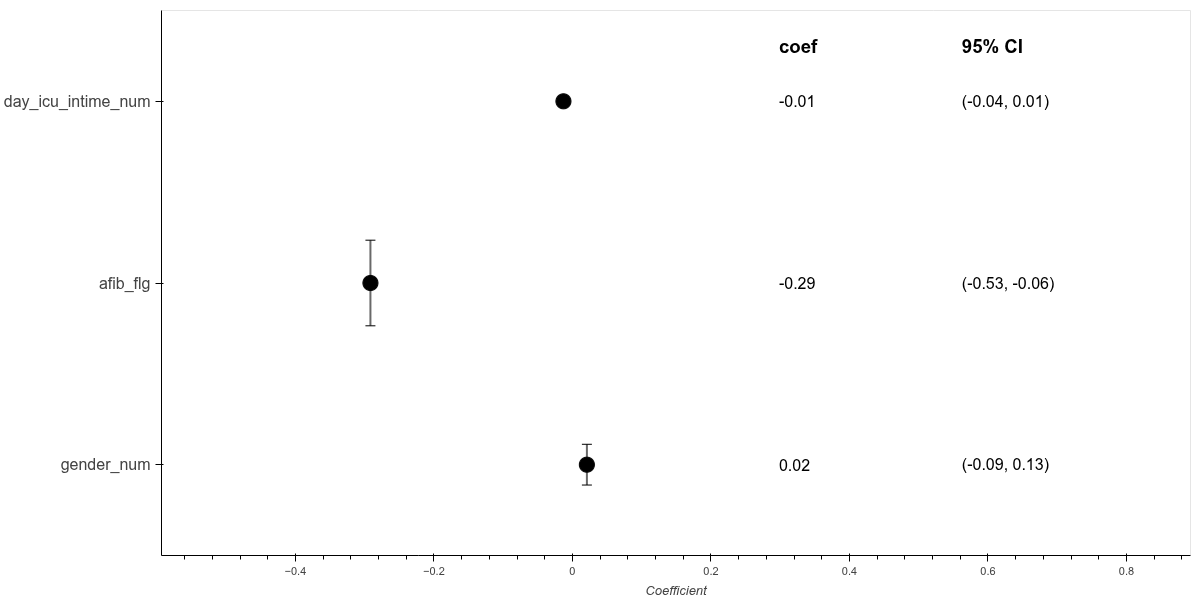
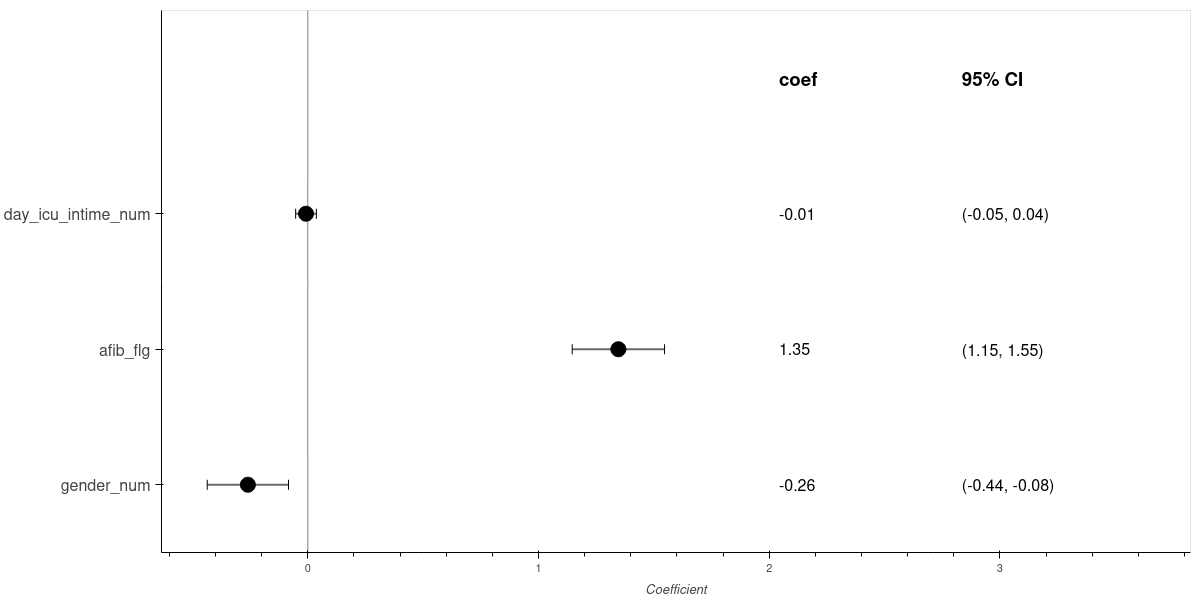
Draw horizontal error bars and the reference line at 0 in cox_ph_forestplot (#1191)
* Draw horizontal error bars and the reference line at 0 in cox_ph_forestplot

The error bars got the coefficient and the row as two key dimensions, so holoviews warned and drew them vertically along the rows.
They now have the coefficient as key dimension and the row as value dimension with horizontal=True.
The x axis shows coefficients, the log hazard ratios, so the reference line of a hazard ratio of 1 belongs at 0, not at 1, and the axis now always includes it.
The header sat 0.3 rows above the top coefficient and overlapped it once there were more than a few rows, so it now gets its own row.
The docstring preview is regenerated from the docstring example.

* Link the changelog entry to its pull request

diff --git a/ehrapy/plot/_survival_analysis.py b/ehrapy/plot/_survival_analysis.py
@@ -392,8 +392,8 @@ def cox_ph_forestplot(
     upper = coxph_fitting_summary["coef upper 95%"].values
     y_positions = np.arange(len(coxph_fitting_summary))
 
-    x_axis_upper_bound = float(pd.to_numeric(coxph_fitting_summary["coef upper 95%"]).max())
-    x_axis_lower_bound = float(pd.to_numeric(coxph_fitting_summary["coef lower 95%"]).min())
+    x_axis_upper_bound = max(float(pd.to_numeric(coxph_fitting_summary["coef upper 95%"]).max()), 0.0)
+    x_axis_lower_bound = min(float(pd.to_numeric(coxph_fitting_summary["coef lower 95%"]).min()), 0.0)
 
     data_range = x_axis_upper_bound - x_axis_lower_bound
     plot_padding = data_range * 0.1
@@ -414,8 +414,9 @@ def cox_ph_forestplot(
 
     error_bars = hv.ErrorBars(
         error_data,
-        kdims=["Coefficient", "Variable"],
-        vdims=["negative_error", "positive_error"],
+        kdims=["Coefficient"],
+        vdims=["Variable", "negative_error", "positive_error"],
+        horizontal=True,
     ).opts(color=ecolor, line_width=2)
 
     points = hv.Scatter(
@@ -424,7 +425,7 @@ def cox_ph_forestplot(
         vdims=["Variable"],
     ).opts(color=color, size=size * 5, marker=marker, tools=["hover"])
 
-    vline = hv.VLine(1).opts(color="gray", line_width=1)
+    vline = hv.VLine(0).opts(color="gray", line_width=1)
 
     text_labels = []
     for coef_val, low_val, upp_val, y_pos in zip(coefs, lower, upper, y_positions, strict=False):
@@ -443,7 +444,7 @@ def cox_ph_forestplot(
         text_font_size=f"{text_size}pt", text_align="left", text_color="black"
     )
 
-    header_y = len(coxph_fitting_summary) - 0.7
+    header_y = len(coxph_fitting_summary)
     header_labels = hv.Labels(
         [
             (text_start_x, header_y, "coef"),
@@ -457,7 +458,7 @@ def cox_ph_forestplot(
         width=width,
         height=height,
         xlim=(plot_x_min, total_x_max),
-        ylim=(len(coxph_fitting_summary) - 0.5, -0.5),
+        ylim=(len(coxph_fitting_summary) + 0.5, -0.5),
         invert_yaxis=True,
         yticks=list(zip(y_positions, labels, strict=False)),
         xlabel="Coefficient",

diff --git a/tests/plot/test_survival_analysis.py b/tests/plot/test_survival_analysis.py
@@ -74,8 +74,15 @@ def test_coxph_forestplot(mimic_2: EHRData):
     ].copy()
     ep.tl.cox_ph(edata_subset, duration_col="mort_day_censored", event_col="censor_flg")
     plot = ep.pl.cox_ph_forestplot(edata_subset)
-    assert plot is not None
     assert isinstance(plot, hv.Overlay)
+
+    (vline,) = (element for element in plot if isinstance(element, hv.VLine))
+    assert vline.data == 0
+    (error_bars,) = (element for element in plot if isinstance(element, hv.ErrorBars))
+    assert error_bars.horizontal
+    np.testing.assert_allclose(error_bars.dimension_values("Variable"), [0, 1, 2])
+    labels, header = (element for element in plot if isinstance(element, hv.Labels))
+    assert header.dimension_values("y").min() - labels.dimension_values("y").max() >= 1
 
 
 def test_ols(mimic_2: EHRData):

diff --git a/docs/changelog.md b/docs/changelog.md
@@ -95,6 +95,7 @@ This project adheres to [Semantic Versioning](https://semver.org/spec/v2.0.0.htm
 
 ### 🐛 Bug Fixes
 
+* {func}`ep.pl.cox_ph_forestplot <ehrapy.plot.cox_ph_forestplot>` draws the confidence intervals as horizontal error bars, puts the reference line at a coefficient of 0, which is a hazard ratio of 1, instead of 1, and gives the header its own row instead of overlapping the top coefficient ([#1191](https://github.com/theislab/ehrapy/pull/1191)) @Zethson
 * The survival models that derive durations from a longitudinal `event_col` measure them in the unit of `edata.tem["time_value"]`, such as hours on PhysioNet 2012 and 2019, instead of in seconds of `edata.tem["interval_start_offset"]`, which they keep using when `tem` has no `time_value` ([#1190](https://github.com/theislab/ehrapy/pull/1190)) @Zethson
 * The examples of {func}`ep.tl.kaplan_meier <ehrapy.tools.kaplan_meier>`, {func}`ep.tl.nelson_aalen <ehrapy.tools.nelson_aalen>`, {func}`ep.tl.weibull <ehrapy.tools.weibull>`, {func}`ep.tl.weibull_aft <ehrapy.tools.weibull_aft>`, {func}`ep.tl.log_logistic_aft <ehrapy.tools.log_logistic_aft>`, {func}`ep.tl.cox_ph <ehrapy.tools.cox_ph>` and {func}`ep.pl.kaplan_meier <ehrapy.plot.kaplan_meier>` no longer flip `censor_flg` of MIMIC-II, which `ed.dt.mimic_2` already codes as 1 for death, so that they model the time to death instead of the time to censoring ([#1189](https://github.com/theislab/ehrapy/pull/1189)) @Zethson
 * The logistic propensity model of the causal estimators and diagnostics standardizes the covariates before fitting, so that estimates no longer depend on the units of the covariates and the fit converges on unscaled data such as the 21 baseline covariates of MIMIC-II ([#1186](https://github.com/theislab/ehrapy/pull/1186)) @Zethson
